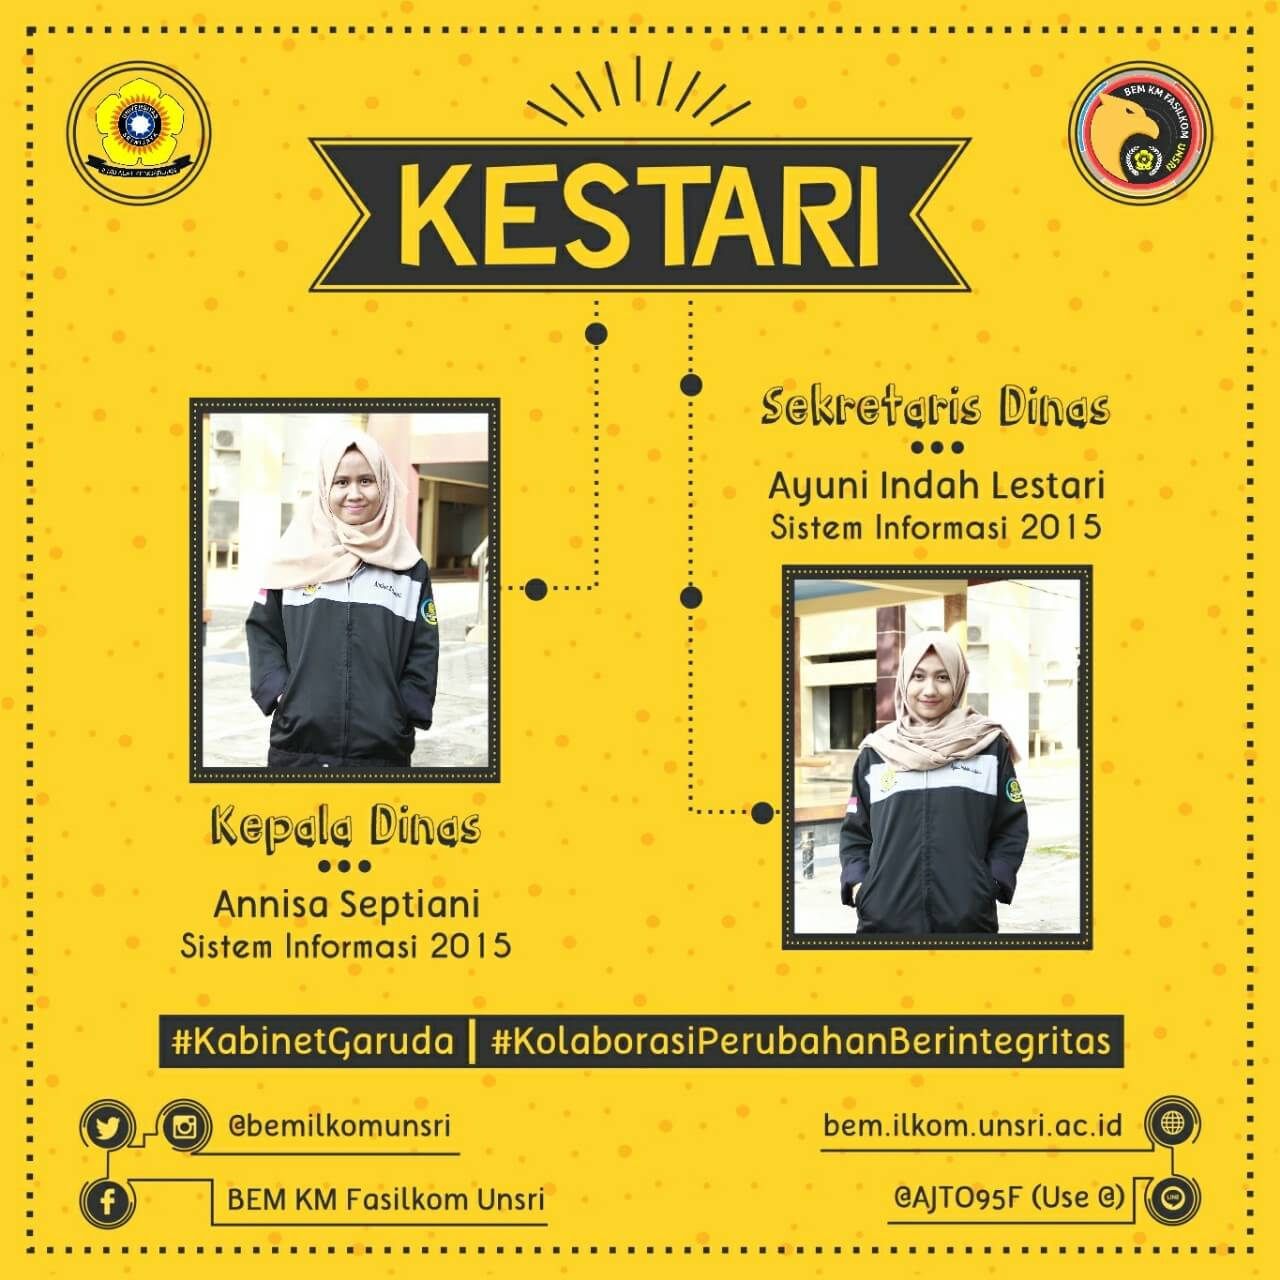
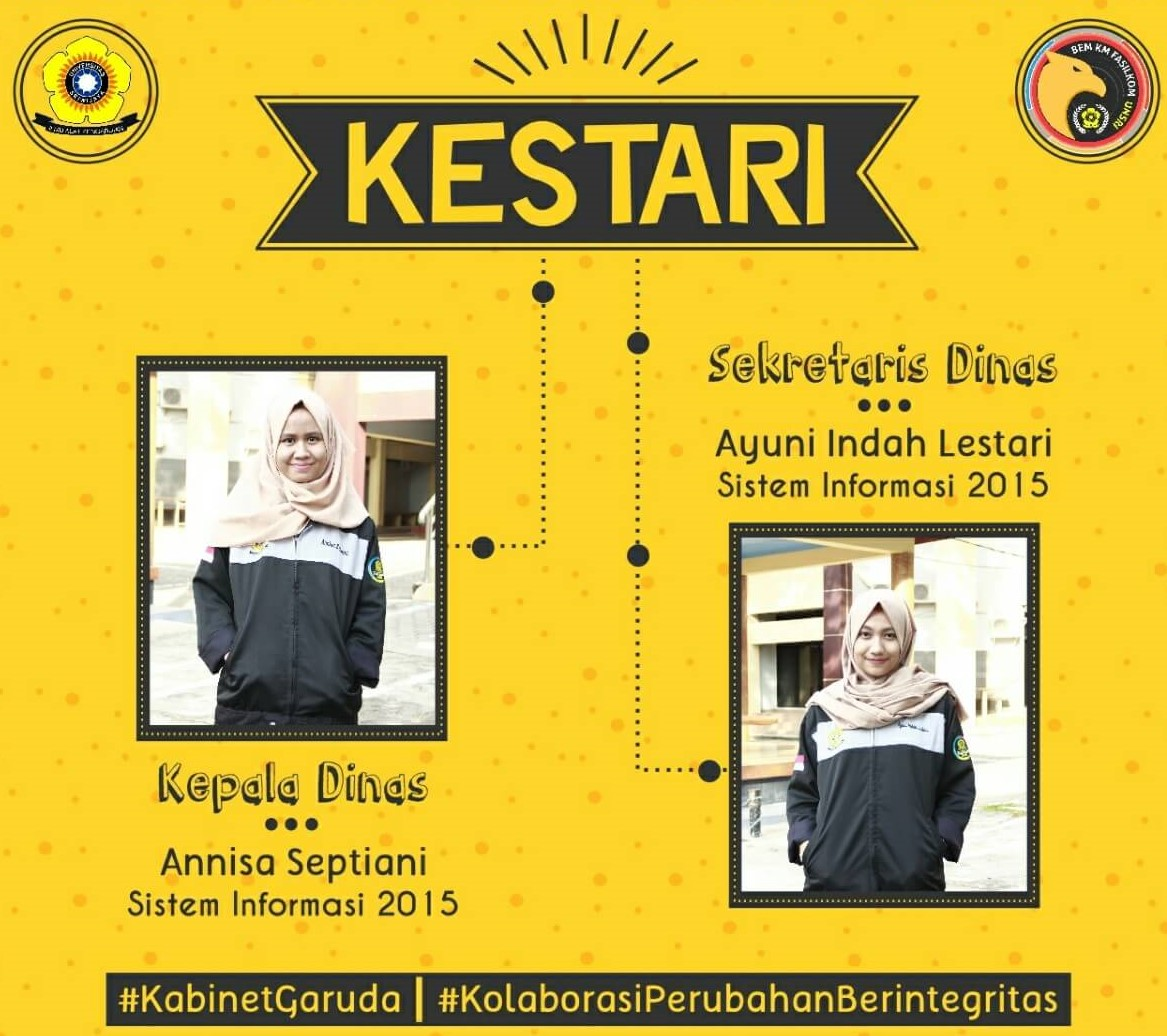
versi 0.0.63

diff --git a/application/views/home.php b/application/views/home.php
@@ -58,7 +58,7 @@
             margin-top: -8%;
         }
         .gambar img{
-            width: 300px; height: 350px;
+            width: 300px; height: 320px;
         }
         .centered-form{
             margin-top: 60px;
